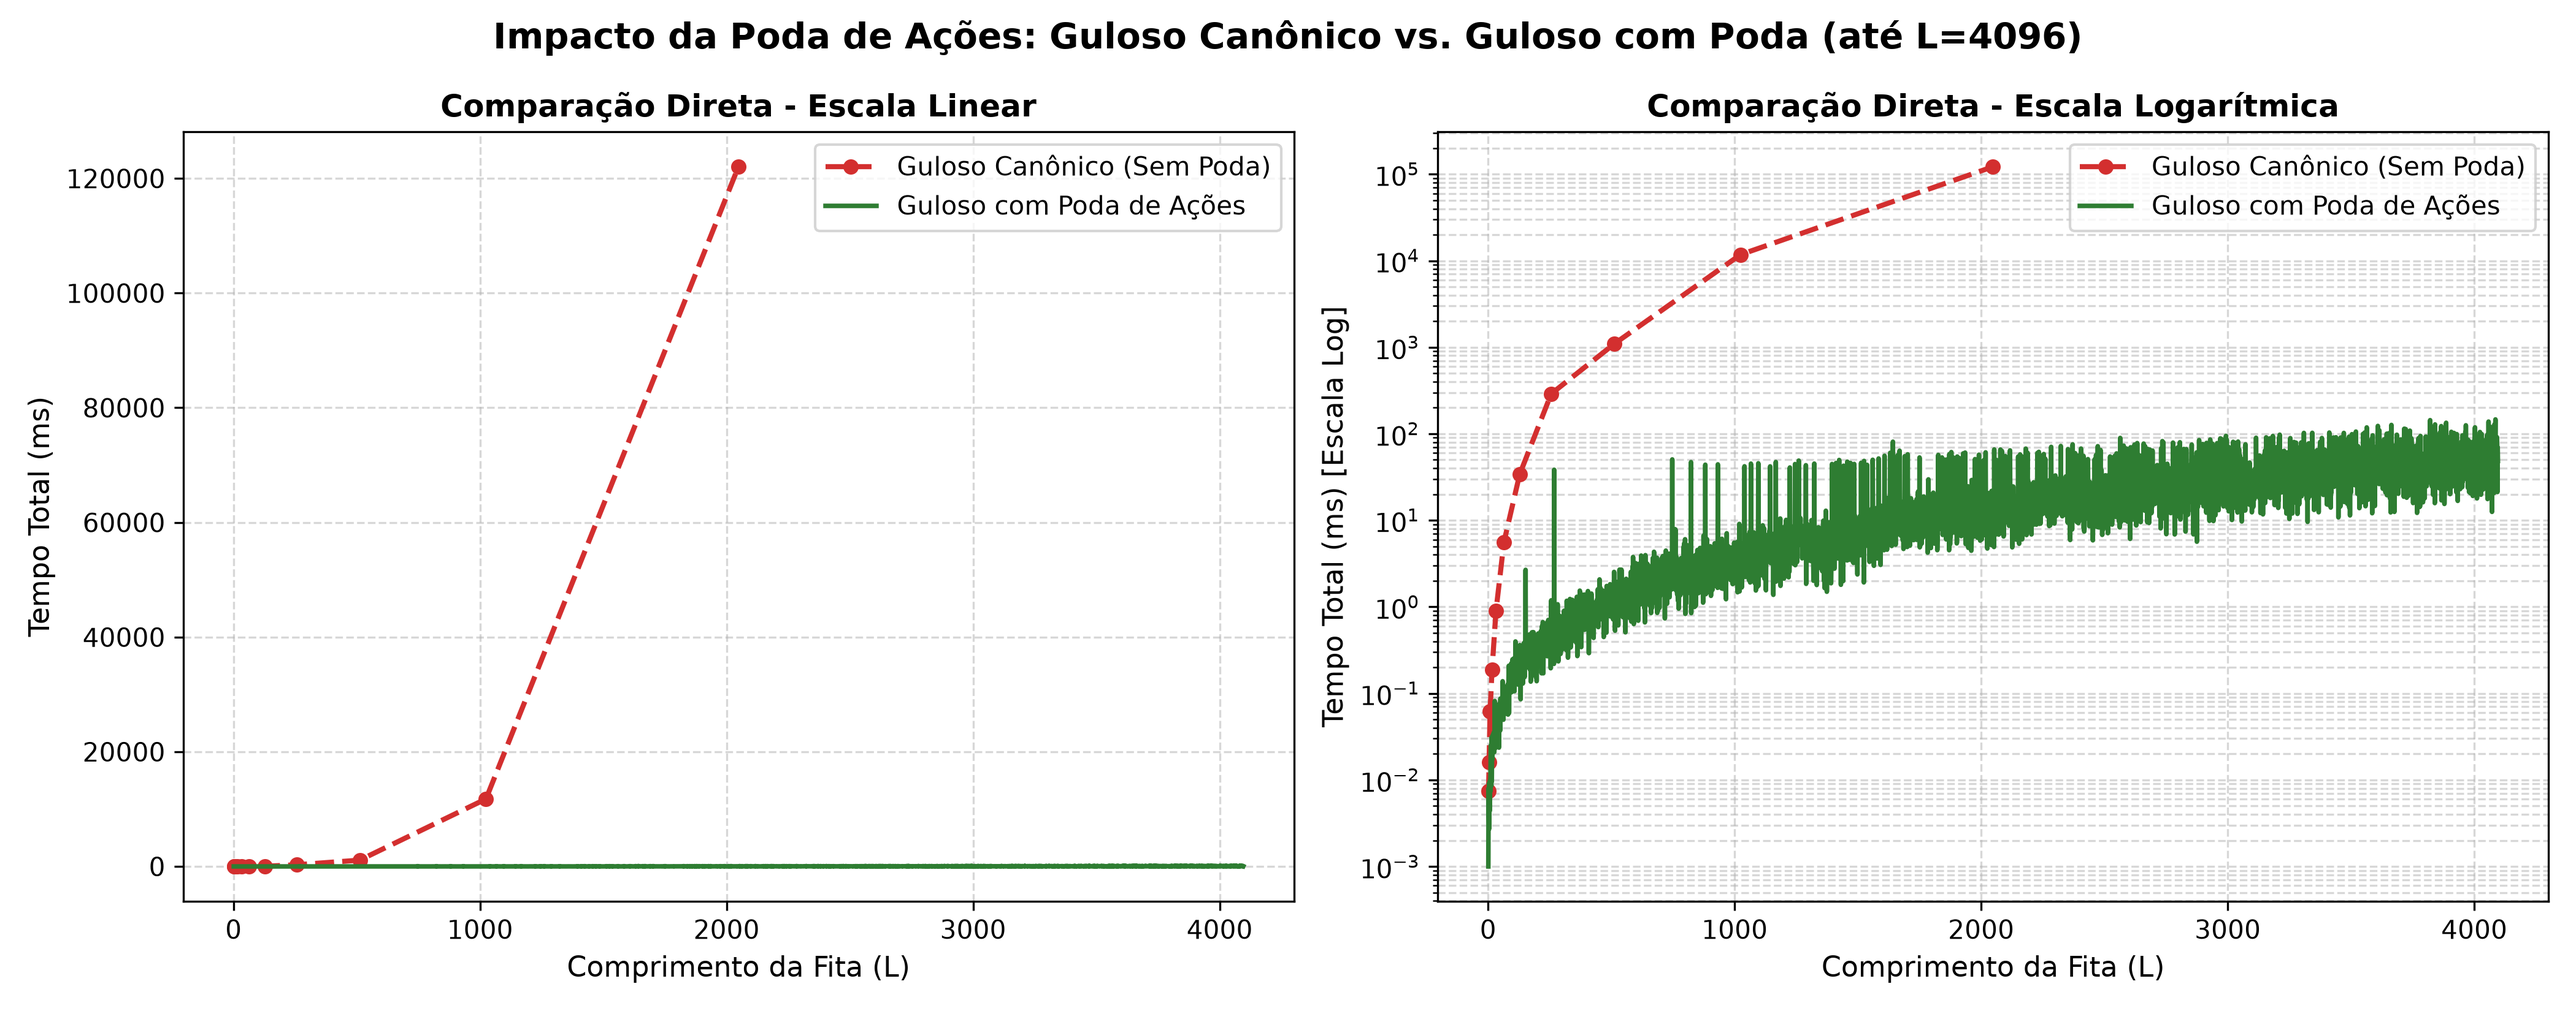
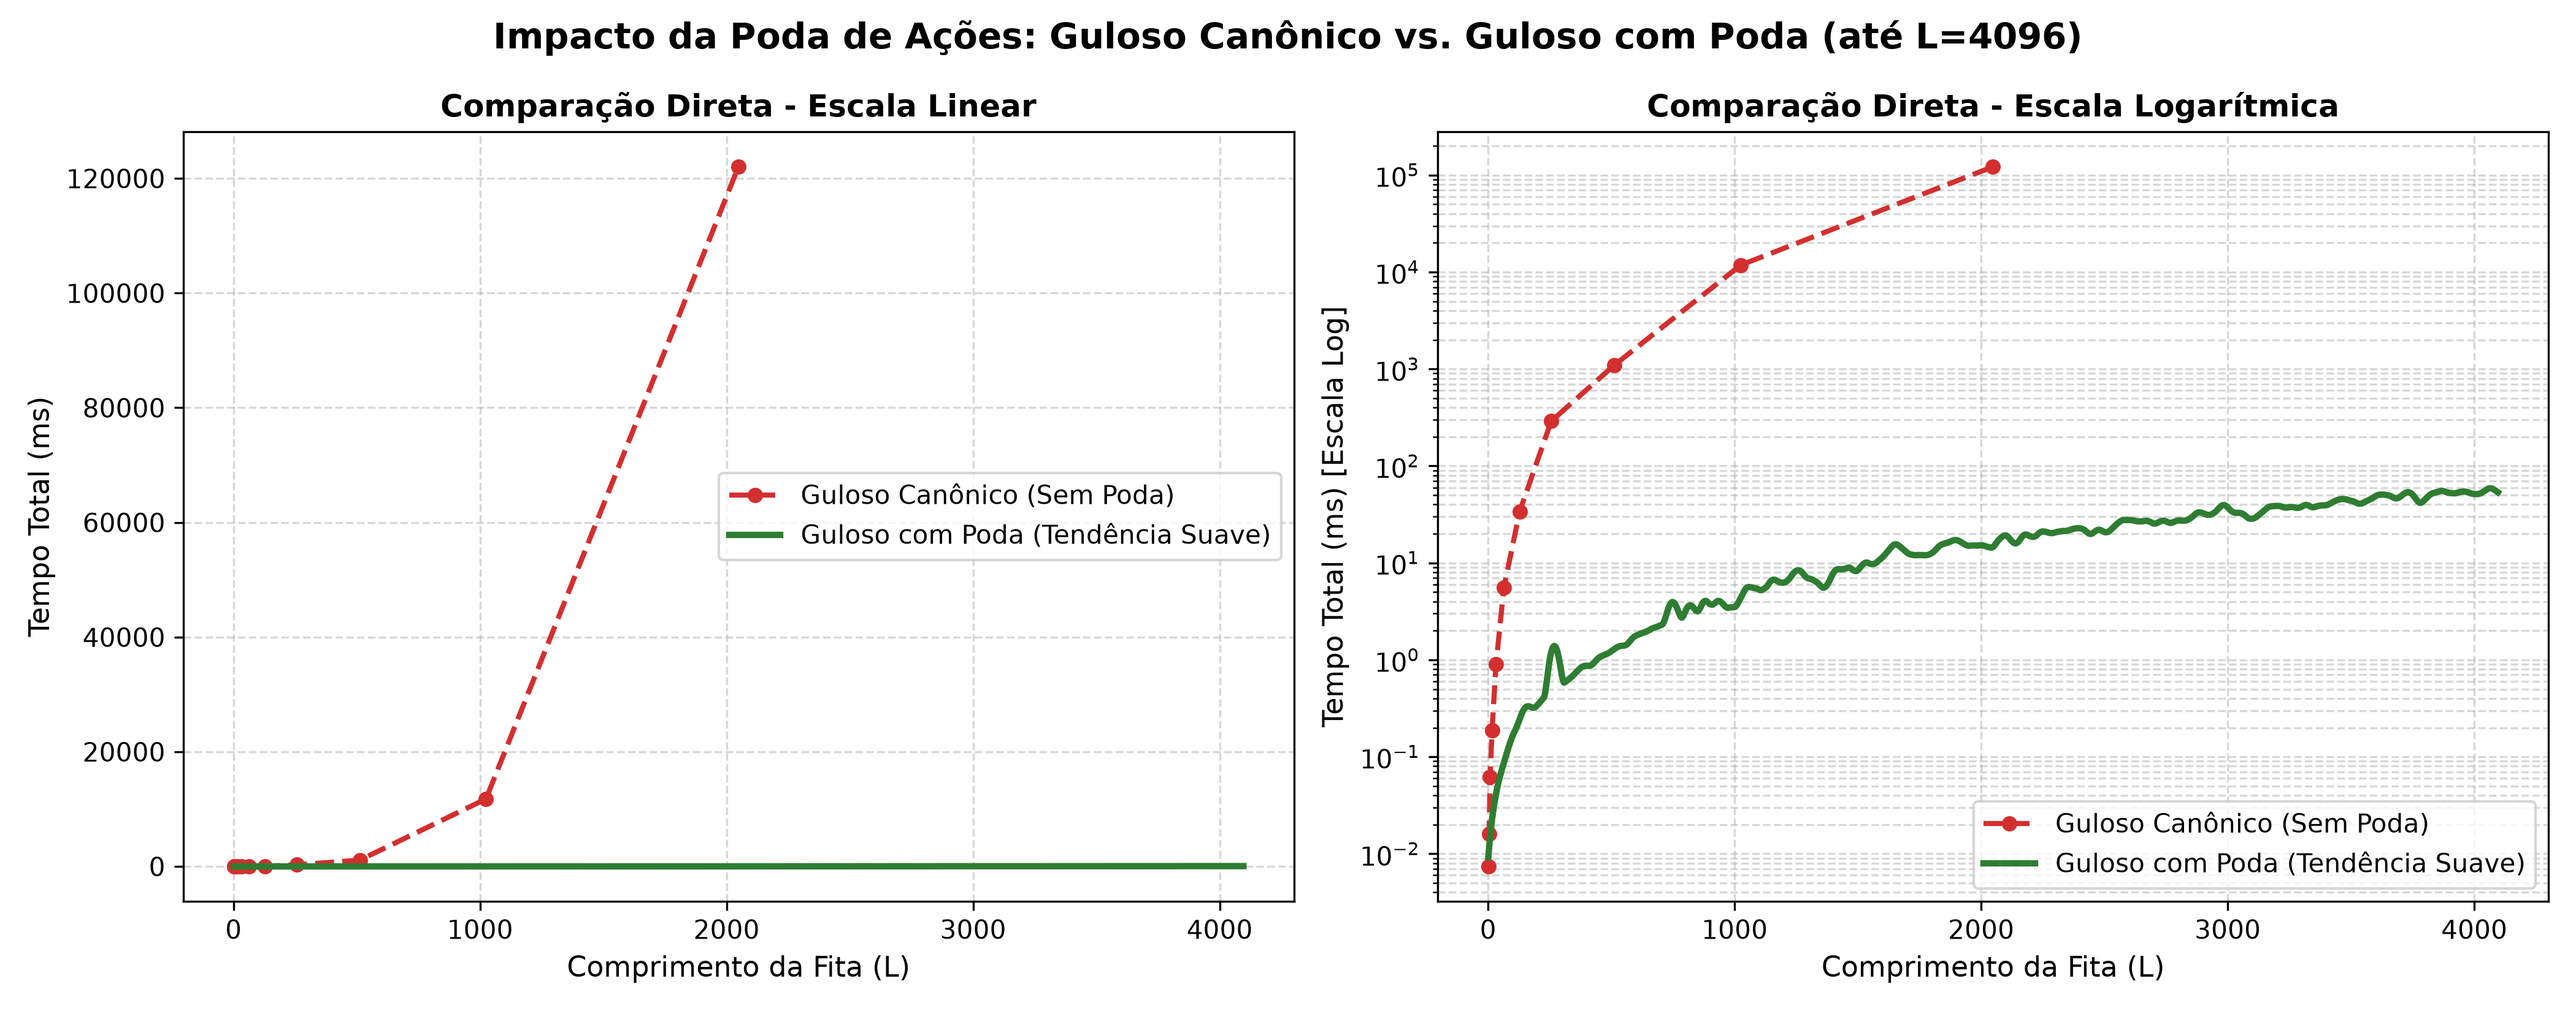
docs(bench): aplicar suavizacao com filtro Hanning e corredor IQR nos graficos de 4096 pontos

diff --git a/mini_projeto_1/parte_1_buscas_classicas/plota_graficos_guloso_poda.py b/mini_projeto_1/parte_1_buscas_classicas/plota_graficos_guloso_poda.py
@@ -37,10 +37,47 @@ def ler_csv(caminho: str) -> list[dict]:
     return registros
 
 
+def suavizar_sinal(x: np.ndarray, y: np.ndarray, janela: int = 51) -> tuple[np.ndarray, np.ndarray, np.ndarray]:
+    """Suaviza o sinal usando uma média ponderada com janela de Hanning e calcula bandas IQR."""
+    if len(y) <= janela:
+        return y, y, y
+
+    # Garante tamanho ímpar para simetria
+    if janela % 2 == 0:
+        janela += 1
+
+    pad = janela // 2
+    y_pad = np.pad(y, pad, mode="edge")
+
+    # Janela Hanning normalizada para transições ultra-suaves
+    kernel = np.hanning(janela)
+    kernel = kernel / kernel.sum()
+
+    y_suave = np.convolve(y_pad, kernel, mode="valid")
+
+    # Calcula desvio móvel / bandas de dispersão local
+    # Janela deslizante para percentis
+    y_p25 = np.zeros_like(y)
+    y_p75 = np.zeros_like(y)
+
+    for i in range(len(y)):
+        inicio = max(0, i - pad)
+        fim = min(len(y), i + pad + 1)
+        sub = y[inicio:fim]
+        y_p25[i] = np.percentile(sub, 25)
+        y_p75[i] = np.percentile(sub, 75)
+
+    y_p25_suave = np.convolve(np.pad(y_p25, pad, mode="edge"), kernel, mode="valid")
+    y_p75_suave = np.convolve(np.pad(y_p75, pad, mode="edge"), kernel, mode="valid")
+
+    return y_suave, y_p25_suave, y_p75_suave
+
+
 def plotar_graficos_poda(
     csv_poda: str = "bench/bench_guloso_poda.csv",
     csv_canonico: str = "bench/bench_guloso.csv",
     dir_saida: str = "bench",
+    janela_suavizacao: int = 75,
 ):
     Path(dir_saida).mkdir(parents=True, exist_ok=True)
     dados_poda = ler_csv(csv_poda)
@@ -55,39 +92,66 @@ def plotar_graficos_poda(
     seq_poda.sort(key=lambda x: x["tamanho"])
     torch_poda.sort(key=lambda x: x["tamanho"])
 
-    l_seq = [d["tamanho"] for d in seq_poda]
-    t_seq = [d["tempo_ms"] for d in seq_poda]
-    nos_seq = [d["nos_expandidos"] for d in seq_poda]
-    tp_seq = [d["throughput_nos_s"] for d in seq_poda]
+    l_seq = np.array([d["tamanho"] for d in seq_poda])
+    t_seq = np.array([d["tempo_ms"] for d in seq_poda])
+    nos_seq = np.array([d["nos_expandidos"] for d in seq_poda])
 
-    l_torch = [d["tamanho"] for d in torch_poda]
-    t_torch = [d["tempo_ms"] for d in torch_poda]
-    nos_torch = [d["nos_expandidos"] for d in torch_poda]
-    tp_torch = [d["throughput_nos_s"] for d in torch_poda]
+    l_torch = np.array([d["tamanho"] for d in torch_poda])
+    t_torch = np.array([d["tempo_ms"] for d in torch_poda])
+    nos_torch = np.array([d["nos_expandidos"] for d in torch_poda])
 
     cor_seq = "#E65100"    # Laranja
     cor_torch = "#1565C0"  # Azul
     cor_poda = "#2E7D32"   # Verde
 
     denso = len(l_seq) > 50
-    fmt = "-" if denso else "o-"
-    ms = 0 if denso else 5
-    lw = 1.8 if denso else 2.0
+
+    if denso:
+        t_seq_suave, t_seq_p25, t_seq_p75 = suavizar_sinal(l_seq, t_seq, janela=janela_suavizacao)
+        nos_seq_suave, nos_p25, nos_p75 = suavizar_sinal(l_seq, nos_seq, janela=janela_suavizacao)
+        if len(l_torch) > 0:
+            t_torch_suave, t_torch_p25, t_torch_p75 = suavizar_sinal(l_torch, t_torch, janela=janela_suavizacao)
+    else:
+        t_seq_suave, t_seq_p25, t_seq_p75 = t_seq, t_seq, t_seq
+        nos_seq_suave, nos_p25, nos_p75 = nos_seq, nos_seq, nos_seq
+        if len(l_torch) > 0:
+            t_torch_suave, t_torch_p25, t_torch_p75 = t_torch, t_torch, t_torch
 
     # 1. TEMPO DE EXECUÇÃO (Linear vs Log)
     fig, (ax1, ax2) = plt.subplots(1, 2, figsize=(14, 5.5), dpi=300)
-    ax1.plot(l_seq, t_seq, fmt, color=cor_seq, label="Sequencial (Poda)", lw=lw, markersize=ms)
-    if l_torch:
-        ax1.plot(l_torch, t_torch, fmt, color=cor_torch, label="PyTorch SIMD (Poda)", lw=lw, markersize=ms)
+
+    if denso:
+        # Fundo com os pontos originais atenuados
+        ax1.scatter(l_seq, t_seq, color=cor_seq, alpha=0.08, s=3, rasterized=True)
+        if len(l_torch) > 0:
+            ax1.scatter(l_torch, t_torch, color=cor_torch, alpha=0.08, s=3, rasterized=True)
+        # Faixa sombreada de dispersão (IQR)
+        ax1.fill_between(l_seq, t_seq_p25, t_seq_p75, color=cor_seq, alpha=0.15, label="Faixa Interquartil (IQR)")
+        # Curva de tendência suavizada
+        ax1.plot(l_seq, t_seq_suave, "-", color=cor_seq, label="Sequencial (Tendência Suave)", lw=2.5)
+        if len(l_torch) > 0:
+            ax1.plot(l_torch, t_torch_suave, "-", color=cor_torch, label="PyTorch SIMD (Tendência Suave)", lw=2.5)
+    else:
+        ax1.plot(l_seq, t_seq, "o-", color=cor_seq, label="Sequencial (Poda)", lw=2, markersize=5)
+        if len(l_torch) > 0:
+            ax1.plot(l_torch, t_torch, "s-", color=cor_torch, label="PyTorch SIMD (Poda)", lw=2, markersize=5)
+
     ax1.set_title("Escala Linear (Tempo de Execução)", fontsize=12, fontweight="bold")
     ax1.set_xlabel("Comprimento da Fita (L)", fontsize=11)
     ax1.set_ylabel("Tempo Total (ms)", fontsize=11)
     ax1.grid(True, linestyle="--", alpha=0.5)
     ax1.legend(frameon=True)
 
-    ax2.plot(l_seq, [max(1e-3, t) for t in t_seq], fmt, color=cor_seq, label="Sequencial (Poda)", lw=lw, markersize=ms)
-    if l_torch:
-        ax2.plot(l_torch, [max(1e-3, t) for t in t_torch], fmt, color=cor_torch, label="PyTorch SIMD (Poda)", lw=lw, markersize=ms)
+    if denso:
+        ax2.fill_between(l_seq, np.maximum(1e-3, t_seq_p25), np.maximum(1e-3, t_seq_p75), color=cor_seq, alpha=0.15)
+        ax2.plot(l_seq, np.maximum(1e-3, t_seq_suave), "-", color=cor_seq, label="Sequencial (Tendência Suave)", lw=2.5)
+        if len(l_torch) > 0:
+            ax2.plot(l_torch, np.maximum(1e-3, t_torch_suave), "-", color=cor_torch, label="PyTorch SIMD (Tendência Suave)", lw=2.5)
+    else:
+        ax2.plot(l_seq, np.maximum(1e-3, t_seq), "o-", color=cor_seq, label="Sequencial (Poda)", lw=2, markersize=5)
+        if len(l_torch) > 0:
+            ax2.plot(l_torch, np.maximum(1e-3, t_torch), "s-", color=cor_torch, label="PyTorch SIMD (Poda)", lw=2, markersize=5)
+
     ax2.set_yscale("log")
     ax2.set_title("Escala Logarítmica (Tempo de Execução)", fontsize=12, fontweight="bold")
     ax2.set_xlabel("Comprimento da Fita (L)", fontsize=11)
@@ -104,14 +168,26 @@ def plotar_graficos_poda(
 
     # 2. NÓS EXPANDIDOS
     fig, (ax1, ax2) = plt.subplots(1, 2, figsize=(14, 5.5), dpi=300)
-    ax1.plot(l_seq, nos_seq, fmt, color=cor_poda, label="Nós Expandidos (Poda)", lw=lw, markersize=ms)
+
+    if denso:
+        ax1.scatter(l_seq, nos_seq, color=cor_poda, alpha=0.08, s=3, rasterized=True)
+        ax1.fill_between(l_seq, nos_p25, nos_p75, color=cor_poda, alpha=0.15, label="Faixa Interquartil (IQR)")
+        ax1.plot(l_seq, nos_seq_suave, "-", color=cor_poda, label="Nós Expandidos (Tendência Suave)", lw=2.5)
+    else:
+        ax1.plot(l_seq, nos_seq, "o-", color=cor_poda, label="Nós Expandidos (Poda)", lw=2, markersize=5)
+
     ax1.set_title("Escala Linear (Nós Expandidos)", fontsize=12, fontweight="bold")
     ax1.set_xlabel("Comprimento da Fita (L)", fontsize=11)
     ax1.set_ylabel("Nós Expandidos", fontsize=11)
     ax1.grid(True, linestyle="--", alpha=0.5)
     ax1.legend(frameon=True)
 
-    ax2.plot(l_seq, nos_seq, fmt, color=cor_poda, label="Nós Expandidos (Poda)", lw=lw, markersize=ms)
+    if denso:
+        ax2.fill_between(l_seq, np.maximum(1, nos_p25), np.maximum(1, nos_p75), color=cor_poda, alpha=0.15)
+        ax2.plot(l_seq, np.maximum(1, nos_seq_suave), "-", color=cor_poda, label="Nós Expandidos (Tendência Suave)", lw=2.5)
+    else:
+        ax2.plot(l_seq, nos_seq, "o-", color=cor_poda, label="Nós Expandidos (Poda)", lw=2, markersize=5)
+
     ax2.set_yscale("log")
     ax2.set_title("Escala Logarítmica (Nós Expandidos)", fontsize=12, fontweight="bold")
     ax2.set_xlabel("Comprimento da Fita (L)", fontsize=11)
@@ -131,20 +207,28 @@ def plotar_graficos_poda(
     if dados_canon:
         seq_canon = [d for d in dados_canon if d["estrategia"] == "Sequencial"]
         seq_canon.sort(key=lambda x: x["tamanho"])
-        l_canon = [d["tamanho"] for d in seq_canon]
-        t_canon = [d["tempo_ms"] for d in seq_canon]
+        l_canon = np.array([d["tamanho"] for d in seq_canon])
+        t_canon = np.array([d["tempo_ms"] for d in seq_canon])
 
         fig, (ax1, ax2) = plt.subplots(1, 2, figsize=(14, 5.5), dpi=300)
         ax1.plot(l_canon, t_canon, "o--", color="#D32F2F", label="Guloso Canônico (Sem Poda)", lw=2, markersize=5)
-        ax1.plot(l_seq, t_seq, fmt, color="#2E7D32", label="Guloso com Poda de Ações", lw=lw, markersize=ms)
+        if denso:
+            ax1.plot(l_seq, t_seq_suave, "-", color="#2E7D32", label="Guloso com Poda (Tendência Suave)", lw=2.5)
+        else:
+            ax1.plot(l_seq, t_seq, "o-", color="#2E7D32", label="Guloso com Poda de Ações", lw=2, markersize=5)
+
         ax1.set_title("Comparação Direta - Escala Linear", fontsize=12, fontweight="bold")
         ax1.set_xlabel("Comprimento da Fita (L)", fontsize=11)
         ax1.set_ylabel("Tempo Total (ms)", fontsize=11)
         ax1.grid(True, linestyle="--", alpha=0.5)
         ax1.legend(frameon=True)
 
-        ax2.plot(l_canon, [max(1e-3, t) for t in t_canon], "o--", color="#D32F2F", label="Guloso Canônico (Sem Poda)", lw=2, markersize=5)
-        ax2.plot(l_seq, [max(1e-3, t) for t in t_seq], fmt, color="#2E7D32", label="Guloso com Poda de Ações", lw=lw, markersize=ms)
+        ax2.plot(l_canon, np.maximum(1e-3, t_canon), "o--", color="#D32F2F", label="Guloso Canônico (Sem Poda)", lw=2, markersize=5)
+        if denso:
+            ax2.plot(l_seq, np.maximum(1e-3, t_seq_suave), "-", color="#2E7D32", label="Guloso com Poda (Tendência Suave)", lw=2.5)
+        else:
+            ax2.plot(l_seq, np.maximum(1e-3, t_seq), "o-", color="#2E7D32", label="Guloso com Poda de Ações", lw=2, markersize=5)
+
         ax2.set_yscale("log")
         ax2.set_title("Comparação Direta - Escala Logarítmica", fontsize=12, fontweight="bold")
         ax2.set_xlabel("Comprimento da Fita (L)", fontsize=11)
@@ -165,12 +249,14 @@ def main():
     parser.add_argument("--csv-poda", type=str, default="bench/bench_guloso_poda.csv")
     parser.add_argument("--csv-canonico", type=str, default="bench/bench_guloso.csv")
     parser.add_argument("--dir-saida", type=str, default="bench")
+    parser.add_argument("--janela", type=int, default=75, help="Janela de suavização para dados densos.")
 
     args = parser.parse_args()
     plotar_graficos_poda(
         csv_poda=args.csv_poda,
         csv_canonico=args.csv_canonico,
         dir_saida=args.dir_saida,
+        janela_suavizacao=args.janela,
     )
 
 
